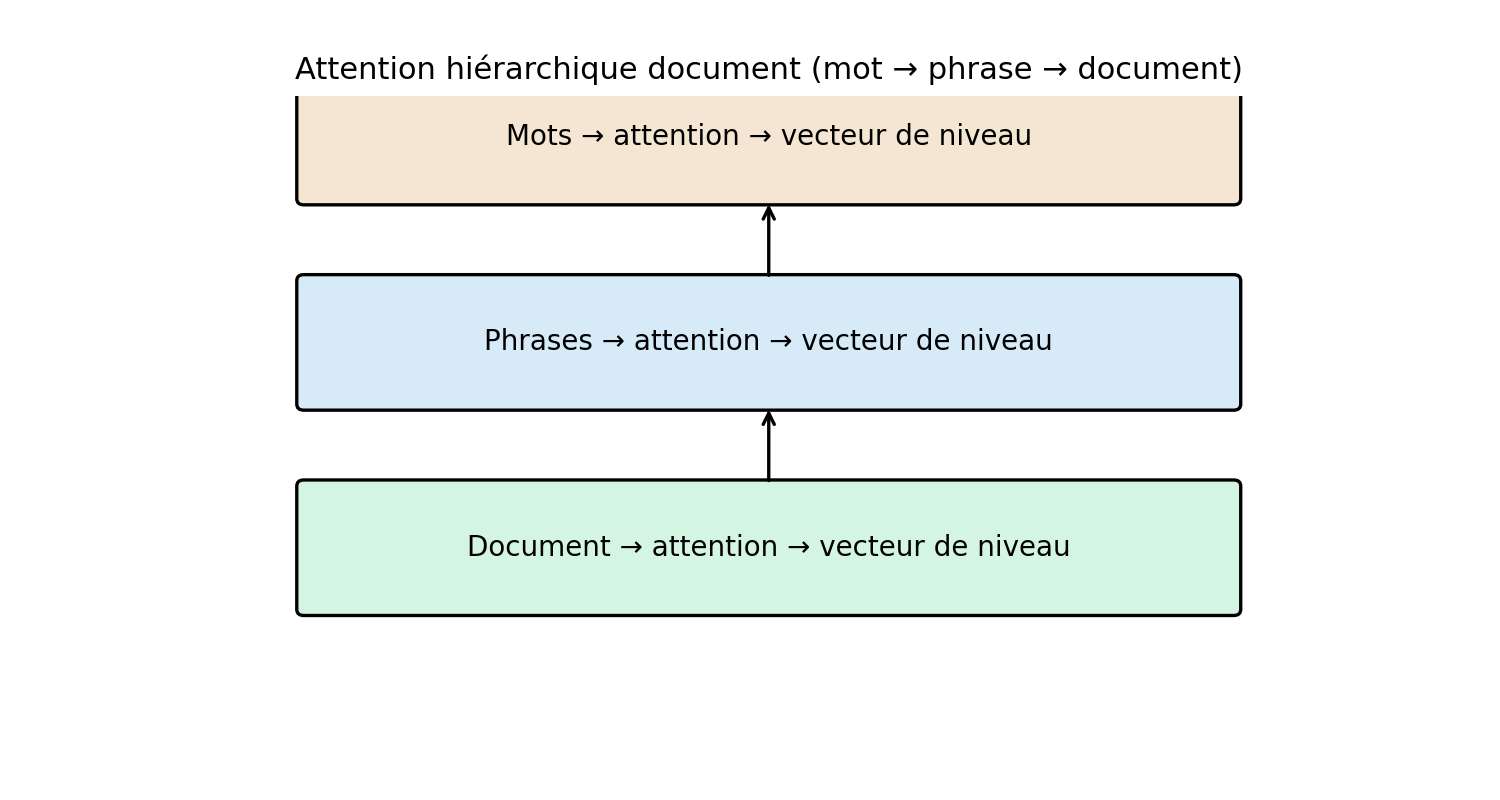
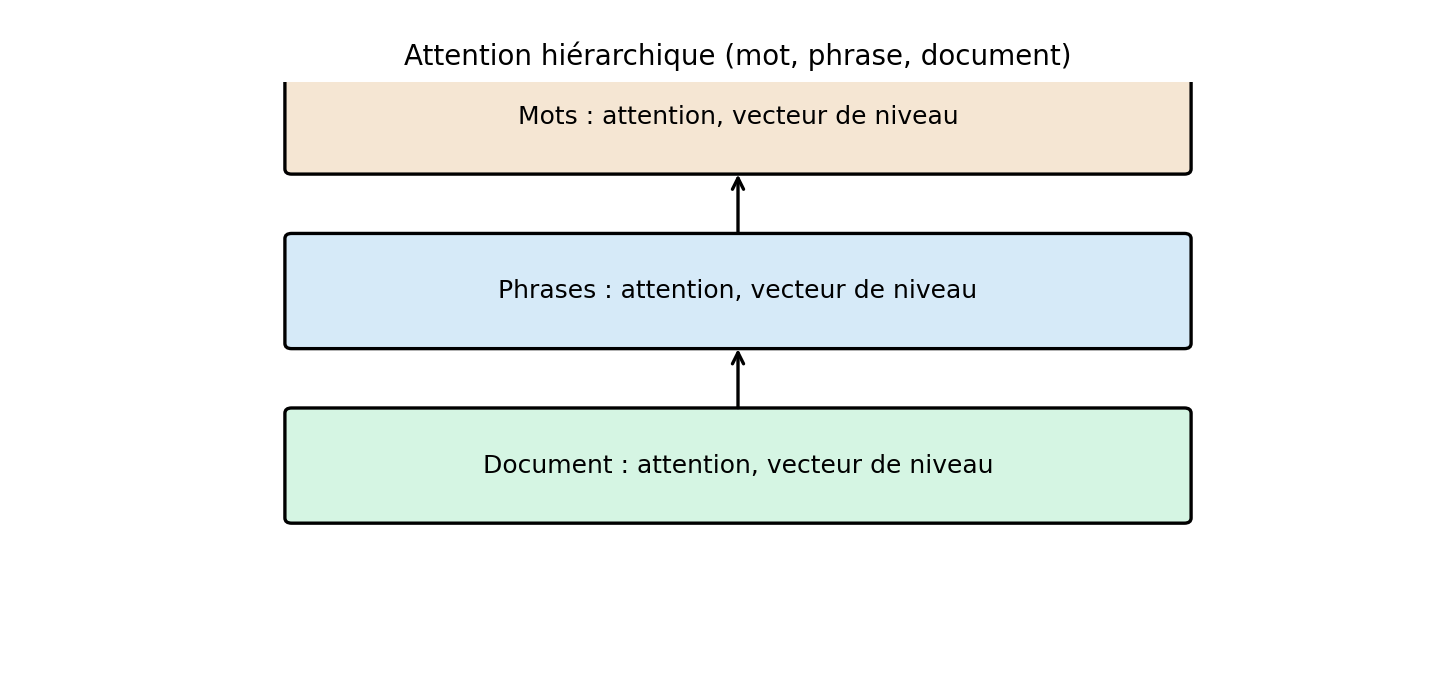
Fix Figure 2.3 page break and running-header overflow.
Float HAN figure with Needspace, shrink schematic, constrain fancyhdr headrule to headwidth, and wrap figure captions.

diff --git a/scripts/render_literature_figures.py b/scripts/render_literature_figures.py
@@ -42,7 +42,7 @@ def fig_transformer_encoder() -> None:
 
 
 def fig_han() -> None:
-    fig, ax = plt.subplots(figsize=(7.5, 4))
+    fig, ax = plt.subplots(figsize=(7.2, 3.4))
     ax.set_xlim(0, 10)
     ax.set_ylim(0, 6)
     ax.axis("off")
@@ -56,10 +56,17 @@ def fig_han() -> None:
             (x, y), 8, 1.2, boxstyle="round,pad=0.06", linewidth=1.2, edgecolor="black", facecolor=color
         )
         ax.add_patch(rect)
-        ax.text(5, y + 0.6, f"{label} → attention → vecteur de niveau", ha="center", va="center", fontsize=10)
+        ax.text(
+            5,
+            y + 0.6,
+            f"{label} : attention, vecteur de niveau",
+            ha="center",
+            va="center",
+            fontsize=9,
+        )
         if y > 1:
             ax.annotate("", xy=(5, y), xytext=(5, y - 0.8), arrowprops=dict(arrowstyle="->", lw=1.2))
-    ax.set_title("Attention hiérarchique document (mot → phrase → document)", fontsize=11)
+    ax.set_title("Attention hiérarchique (mot, phrase, document)", fontsize=10)
     fig.savefig(OUT / "lit_han_schematic.pdf")
     fig.savefig(OUT / "lit_han_schematic.png")
     plt.close(fig)

diff --git a/main.tex b/main.tex
@@ -34,6 +34,7 @@
   xrightmargin=0.5cm
 }
 \usepackage{array}
+\usepackage{needspace}
 \usepackage{enumitem}
 % French babel uses em-dash itemize labels by default; project rule forbids dash markers.
 \setlist[itemize]{label=\textbullet}
@@ -51,6 +52,16 @@
 \setlength{\emergencystretch}{2.5em}
 \tolerance=3500
 \hbadness=10000
+
+\setlength{\headwidth}{\textwidth}
+\fancyheadoffset[L,R]{0pt}
+\AtBeginDocument{%
+  \lhead{\parbox[t]{\dimexpr\headwidth-2pt\relax}{\raggedright\small\nouppercase{\leftmark}}}%
+  \renewcommand{\headrule}{%
+    \hrule width\headwidth height\headrulewidth \vskip-\headrulewidth
+  }%
+}
+\captionsetup[figure]{width=\linewidth}
 
 \begin{document}
     \input{global_config}

diff --git a/chap_02.tex b/chap_02.tex
@@ -264,9 +264,10 @@ segmentation en phrases, encodage par le backbone partagé, agrégation
 des phrases au niveau document par attention additive, avec des bornes
 de longueur fixées au chapitre~\ref{chap:experimentation}.
 
-\begin{figure}[H]
+\Needspace{16\baselineskip}
+\begin{figure}[htbp]
 \centering
-\includegraphics[width=0.88\linewidth]{lit/lit_han_schematic.pdf}
+\includegraphics[width=0.78\linewidth]{lit/lit_han_schematic.pdf}
 \caption{Principe d'attention hiérarchique mot, phrase et document
 (schéma pédagogique d'après \cite{yang2016}).}
 \label{fig:lit-han}
